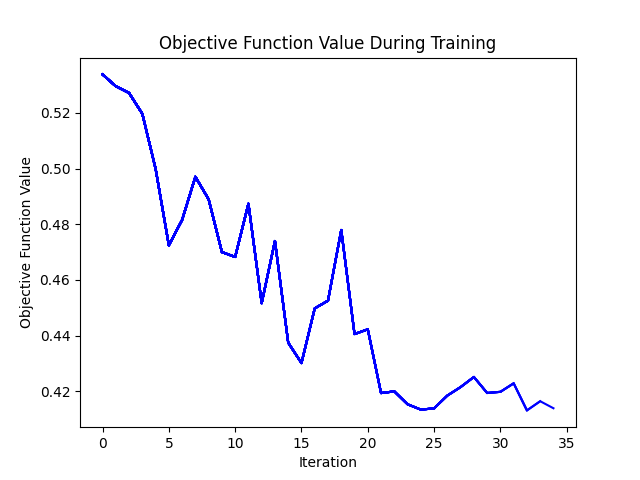
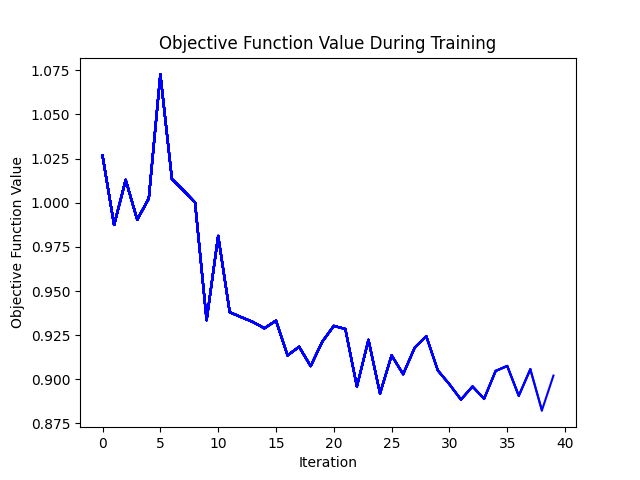
the finall algo of the classification was added

diff --git a/GQNN/examples/sample.py b/GQNN/examples/sample.py
@@ -115,22 +115,172 @@ class QuantumClassifier_SamplerQNN_CPU:
         print(self.qnn_circuit)
         print("Model Weights:", self.classifier.weights)
 
-if __name__ == "__main__":
+# if __name__ == "__main__":
+#     import numpy as np
+#     classifier = QuantumClassifier_SamplerQNN_CPU(num_inputs=2, output_shape=2, ansatz_reps=10)
+#     from qiskit_machine_learning.utils import algorithm_globals
+#     # Generate example data
+#     X = 2 * algorithm_globals.random.random([10, classifier.num_inputs])
+#     y = 1 * (np.sum(X, axis=1) >= 0)
+
+#     print("Training Data:")
+#     print(X)
+#     # Fit the classifier
+#     classifier.fit(X, y)
+
+#     # Evaluate the classifier
+#     accuracy = classifier.score(X, y)
+#     print(f"Accuracy: {accuracy}")
+
+#     # Display the model and save the circuit as an image
+#     classifier.print_model()
+
+
+class VariationalQuantumClassifier:
+    """
+    A class for building, training, and evaluating a Variational Quantum Classifier (VQC).
+
+    Attributes:
+        num_inputs (int): Number of qubits/features in the quantum circuit.
+        max_iter (int): Maximum iterations for the optimizer.
+        feature_map (QuantumCircuit): Feature map used for embedding classical data into a quantum state.
+        ansatz (QuantumCircuit): Ansatz used as the variational component of the quantum circuit.
+        sampler (Sampler): Backend for quantum computations.
+        vqc (VQC): The Variational Quantum Classifier model.
+        objective_func_vals (list): List to store objective function values during training.
+    """
+
+    def __init__(self, num_inputs: int = 2, max_iter: int = 30):
+        """
+        Initialize the VQC with a feature map, ansatz, and optimizer.
+        
+        Args:
+            num_inputs (int): Number of qubits/features.
+            max_iter (int): Maximum iterations for the optimizer.
+        """
+        from qiskit.circuit.library import ZZFeatureMap, RealAmplitudes
+        from qiskit_machine_learning.algorithms.classifiers import VQC
+        from qiskit_machine_learning.optimizers import COBYLA
+        from qiskit.primitives import StatevectorSampler
+
+        self.num_inputs = num_inputs
+        self.max_iter = max_iter
+        self.objective_func_vals = []
+        
+        # Initialize feature map, ansatz, and sampler
+        self.feature_map = ZZFeatureMap(num_inputs)
+        self.ansatz = RealAmplitudes(num_inputs, reps=1)
+        self.sampler = StatevectorSampler()
+        
+        # Initialize VQC model
+        self.vqc = VQC(
+            feature_map=self.feature_map,
+            ansatz=self.ansatz,
+            loss="cross_entropy",
+            optimizer=COBYLA(maxiter=self.max_iter),
+            callback=self._callback_graph,
+            sampler=self.sampler,
+        )
+
+    def _callback_graph(self, weights, obj_func_eval):
+        """
+        Callback function to visualize the objective function value during training.
+        
+        Args:
+            weights (np.ndarray): Model weights during training.
+            obj_func_eval (float): Current objective function value.
+        """
+        import matplotlib.pyplot as plt
+        from IPython.display import clear_output
+        import warnings
+        warnings.filterwarnings("ignore", category=UserWarning, message="FigureCanvasAgg is non-interactive")
+        clear_output(wait=True)
+        self.objective_func_vals.append(obj_func_eval)
+        plt.title("Objective Function Value During Training")
+        plt.xlabel("Iteration")
+        plt.ylabel("Objective Function Value")
+        plt.plot(range(len(self.objective_func_vals)), self.objective_func_vals, color='b')
+        plt.show()
+        plt.savefig("Training Graph.png")
+
     import numpy as np
-    classifier = QuantumClassifier_SamplerQNN_CPU(num_inputs=2, output_shape=2, ansatz_reps=10)
-    from qiskit_machine_learning.utils import algorithm_globals
-    # Generate example data
-    X = 2 * algorithm_globals.random.random([10, classifier.num_inputs])
-    y = 1 * (np.sum(X, axis=1) >= 0)
+    def fit(self, X: np.ndarray, y: np.ndarray):
+        """
+        Train the VQC on the provided dataset.
+        
+        Args:
+            X (np.ndarray): Training data (features).
+            y (np.ndarray): Training data (labels).
+        """
+        import matplotlib.pyplot as plt
+        plt.ion()  # Enable interactive mode for live plotting
+        self.vqc.fit(X, y)
+        self.weights = self.vqc.weights
+        plt.ioff()  # Disable interactive mode
+        plt.show()
 
-    print("Training Data:")
-    print(X)
-    # Fit the classifier
-    classifier.fit(X, y)
+    import numpy as np
+    def predict(self, X: np.ndarray) -> np.ndarray:
+        """
+        Predict labels for the input data.
+        
+        Args:
+            X (np.ndarray): Input data for prediction.
+        
+        Returns:
+            np.ndarray: Predicted labels.
+        """
+        return self.vqc.predict(X)
+    import numpy as np
+    def score(self, X: np.ndarray, y: np.ndarray) -> float:
+        """
+        Evaluate the accuracy of the VQC on the provided dataset.
+        
+        Args:
+            X (np.ndarray): Test data (features).
+            y (np.ndarray): True labels.
+        
+        Returns:
+            float: Accuracy score.
+        """
+        return self.vqc.score(X, y)
 
-    # Evaluate the classifier
-    accuracy = classifier.score(X, y)
-    print(f"Accuracy: {accuracy}")
+    def print_model(self, file_name: str = "quantum_circuit.png"):
+        """
+        Visualize and save the quantum circuit diagram.
+        
+        Args:
+            file_name (str): File name to save the circuit diagram.
+        """
+        try:
+            circuit = self.feature_map.compose(self.ansatz).decompose()
+            circuit.draw(output="mpl").savefig(file_name)
+            print(f"Circuit diagram saved as {file_name}")
+        except Exception as e:
+            print(f"Error visualizing the circuit: {e}")
+        
+        print("Quantum Circuit:")
+        print(self.feature_map)
+        print(self.ansatz)
+        print("Model Weights:")
+        print(self.vqc.weights)
+        
+if __name__ == "__main__":
+    
+    import numpy as np
+    num_samples = 10
+    num_features = 2
+    X = 2 * np.random.rand(num_samples, num_features) - 1  
+    y = (np.sum(X, axis=1) >= 0).astype(int)  
 
-    # Display the model and save the circuit as an image
-    classifier.print_model()
+    
+    vqc_model = VariationalQuantumClassifier(num_inputs=num_features)
+    vqc_model.fit(X, y)
+
+    accuracy = vqc_model.score(X, y)
+    predictions = vqc_model.predict(X)
+
+    print("Predicted Labels:", predictions)
+    print("Accuracy:", accuracy)
+
+    vqc_model.print_model()

diff --git a/GQNN/models/classification_model.py b/GQNN/models/classification_model.py
@@ -45,7 +45,7 @@ class QuantumClassifier_EstimatorQNN_CPU:
     """
     
     
-    def __init__(self, num_qubits: int, maxiter: int):
+    def __init__(self, num_qubits: int, maxiter: int|int=30):
         """
         Initializes the QuantumClassifier with the specified parameters.
         
@@ -168,7 +168,7 @@ class QuantumClassifier_EstimatorQNN_CPU:
 """"This code will runs on Local computer """
 
 class QuantumClassifier_SamplerQNN_CPU:
-    def __init__(self, num_inputs:int, output_shape:int, ansatz_reps:int, maxiter:int):
+    def __init__(self, num_inputs:int, output_shape:int, ansatz_reps:int|int = 1, maxiter:int|int=30):
         """
         Initialize the QuantumClassifier with customizable parameters.
 
@@ -282,3 +282,134 @@ class QuantumClassifier_SamplerQNN_CPU:
         print("Quantum Circuit:")
         print(self.qnn_circuit)
         print("Model Weights:", self.classifier.weights)
+
+""""This code will runs on Local computer """
+
+class VariationalQuantumClassifier_CPU:
+    """
+    A class for building, training, and evaluating a Variational Quantum Classifier (VQC).
+
+    Attributes:
+        num_inputs (int): Number of qubits/features in the quantum circuit.
+        max_iter (int): Maximum iterations for the optimizer.
+        feature_map (QuantumCircuit): Feature map used for embedding classical data into a quantum state.
+        ansatz (QuantumCircuit): Ansatz used as the variational component of the quantum circuit.
+        sampler (Sampler): Backend for quantum computations.
+        vqc (VQC): The Variational Quantum Classifier model.
+        objective_func_vals (list): List to store objective function values during training.
+    """
+
+    def __init__(self, num_inputs: int = 2, max_iter: int = 30):
+        """
+        Initialize the VQC with a feature map, ansatz, and optimizer.
+        
+        Args:
+            num_inputs (int): Number of qubits/features.
+            max_iter (int): Maximum iterations for the optimizer.
+        """
+        from qiskit.circuit.library import ZZFeatureMap, RealAmplitudes
+        from qiskit_machine_learning.algorithms.classifiers import VQC
+        from qiskit_machine_learning.optimizers import COBYLA
+        from qiskit.primitives import StatevectorSampler
+
+        self.num_inputs = num_inputs
+        self.max_iter = max_iter
+        self.objective_func_vals = []
+        
+        # Initialize feature map, ansatz, and sampler
+        self.feature_map = ZZFeatureMap(num_inputs)
+        self.ansatz = RealAmplitudes(num_inputs, reps=1)
+        self.sampler = StatevectorSampler()
+        
+        # Initialize VQC model
+        self.vqc = VQC(
+            feature_map=self.feature_map,
+            ansatz=self.ansatz,
+            loss="cross_entropy",
+            optimizer=COBYLA(maxiter=self.max_iter),
+            callback=self._callback_graph,
+            sampler=self.sampler,
+        )
+
+    def _callback_graph(self, weights, obj_func_eval):
+        """
+        Callback function to visualize the objective function value during training.
+        
+        Args:
+            weights (np.ndarray): Model weights during training.
+            obj_func_eval (float): Current objective function value.
+        """
+        import matplotlib.pyplot as plt
+        from IPython.display import clear_output
+        import warnings
+        warnings.filterwarnings("ignore", category=UserWarning, message="FigureCanvasAgg is non-interactive")
+        clear_output(wait=True)
+        self.objective_func_vals.append(obj_func_eval)
+        plt.title("Objective Function Value During Training")
+        plt.xlabel("Iteration")
+        plt.ylabel("Objective Function Value")
+        plt.plot(range(len(self.objective_func_vals)), self.objective_func_vals, color='b')
+        plt.show()
+        plt.savefig("Training Graph.png")
+
+    import numpy as np
+    def fit(self, X: np.ndarray, y: np.ndarray):
+        """
+        Train the VQC on the provided dataset.
+        
+        Args:
+            X (np.ndarray): Training data (features).
+            y (np.ndarray): Training data (labels).
+        """
+        import matplotlib.pyplot as plt
+        plt.ion()  # Enable interactive mode for live plotting
+        self.vqc.fit(X, y)
+        self.weights = self.vqc.weights
+        plt.ioff()  # Disable interactive mode
+        plt.show()
+
+    import numpy as np
+    def predict(self, X: np.ndarray) -> np.ndarray:
+        """
+        Predict labels for the input data.
+        
+        Args:
+            X (np.ndarray): Input data for prediction.
+        
+        Returns:
+            np.ndarray: Predicted labels.
+        """
+        return self.vqc.predict(X)
+    import numpy as np
+    def score(self, X: np.ndarray, y: np.ndarray) -> float:
+        """
+        Evaluate the accuracy of the VQC on the provided dataset.
+        
+        Args:
+            X (np.ndarray): Test data (features).
+            y (np.ndarray): True labels.
+        
+        Returns:
+            float: Accuracy score.
+        """
+        return self.vqc.score(X, y)
+
+    def print_model(self, file_name: str = "quantum_circuit.png"):
+        """
+        Visualize and save the quantum circuit diagram.
+        
+        Args:
+            file_name (str): File name to save the circuit diagram.
+        """
+        try:
+            circuit = self.feature_map.compose(self.ansatz).decompose()
+            circuit.draw(output="mpl").savefig(file_name)
+            print(f"Circuit diagram saved as {file_name}")
+        except Exception as e:
+            print(f"Error visualizing the circuit: {e}")
+        
+        print("Quantum Circuit:")
+        print(self.feature_map)
+        print(self.ansatz)
+        print("Model Weights:")
+        print(self.vqc.weights)

diff --git a/GQNN/examples/dataset_load.py b/GQNN/examples/dataset_load.py
@@ -1,6 +1,6 @@
 from GQNN.data.dataset import Data_Read
 from GQNN.models.data_split import DataSplitter
-from GQNN.models.classification_model import QuantumClassifier_EstimatorQNN_CPU, QuantumClassifier_SamplerQNN_CPU
+from GQNN.models.classification_model import QuantumClassifier_EstimatorQNN_CPU, QuantumClassifier_SamplerQNN_CPU,VariationalQuantumClassifier_CPU
 import numpy as np
 from joblib import dump, load
 
@@ -45,11 +45,22 @@ print(f"y_train shape: {y_train.shape}")
 # adjusted_score = 1 - score
 # print(f"Model accuracy (adjusted): {adjusted_score * 100:.2f}%")
 
-model_1 = QuantumClassifier_SamplerQNN_CPU(num_inputs=4, output_shape=2, ansatz_reps=1,maxiter=35)
-model_1.fit(x_train, y_train)
+# model_1 = QuantumClassifier_SamplerQNN_CPU(num_inputs=4, output_shape=2, ansatz_reps=1,maxiter=35)
+# model_1.fit(x_train, y_train)
+
+# # Print the trained model's parameters
+# model_1.print_model()
+
+# model_1_score = model_1.score(x_test, y_test)
+# print(f"Model accuracy (QuantumClassifier_SamplerQNN_CPU): {model_1_score * 100:.2f}%")
+
+model_2 = VariationalQuantumClassifier_CPU(num_inputs=num_qubits,max_iter=40)
+
+model_2.fit(x_train, y_train)
 
 # Print the trained model's parameters
-model_1.print_model()
+model_2.print_model()
 
-model_1_score = model_1.score(x_test, y_test)
-print(f"Model accuracy (QuantumClassifier_SamplerQNN_CPU): {model_1_score * 100:.2f}%")
+model_2_score = model_2.score(x_test, y_test)
+
+print(f"Model accuracy (VariationalQuantumClassifier_CPU): {model_2_score * 100:.2f}%")

diff --git a/GQNN/models/__init__.py b/GQNN/models/__init__.py
@@ -1,3 +1,3 @@
 from GQNN.models.data_split import DataSplitter
-from GQNN.models.classification_model import QuantumClassifier_EstimatorQNN_CPU, QuantumClassifier_SamplerQNN_CPU
-__all__ = ['DataSplitter','QuantumClassifier_EstimatorQNN_CPU','QuantumClassifier_SamplerQNN_CPU']
+from GQNN.models.classification_model import QuantumClassifier_EstimatorQNN_CPU, QuantumClassifier_SamplerQNN_CPU,VariationalQuantumClassifier_CPU
+__all__ = ['DataSplitter','QuantumClassifier_EstimatorQNN_CPU','QuantumClassifier_SamplerQNN_CPU','VariationalQuantumClassifier_CPU']
